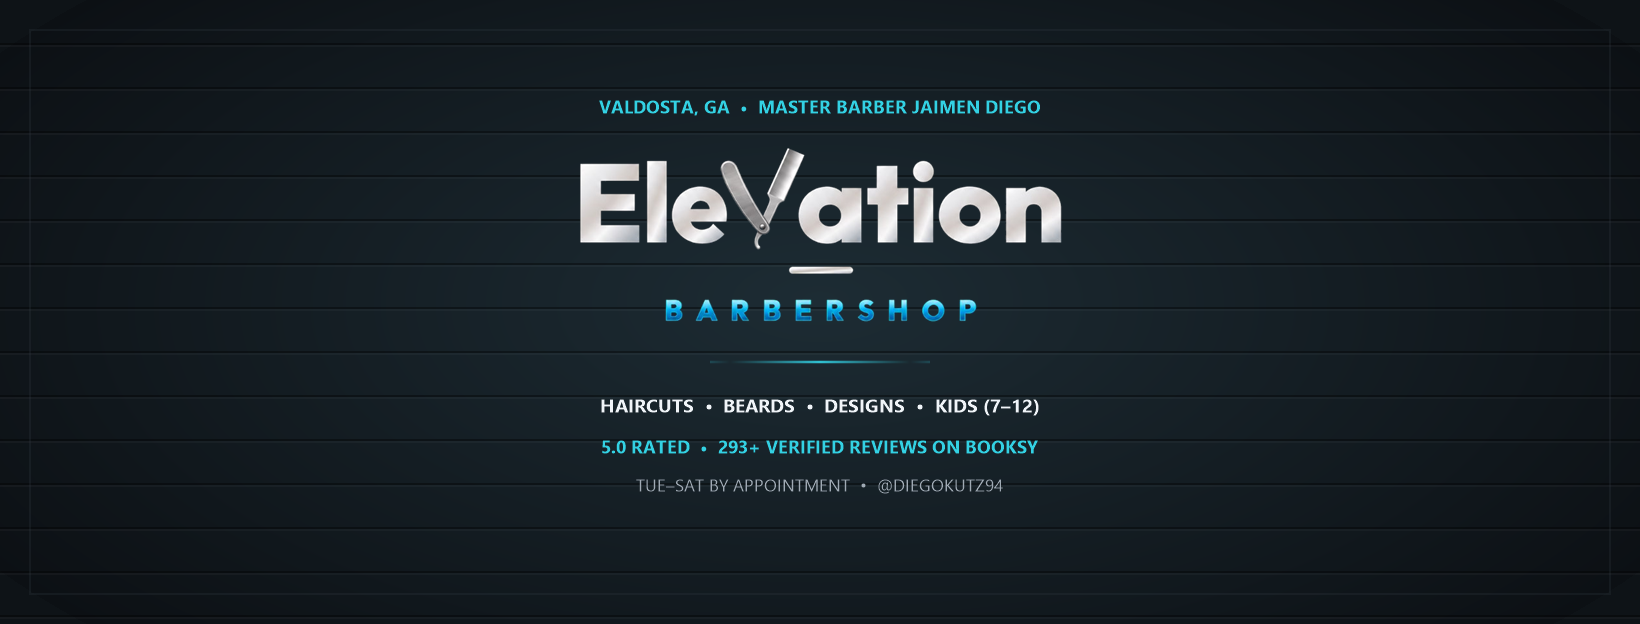
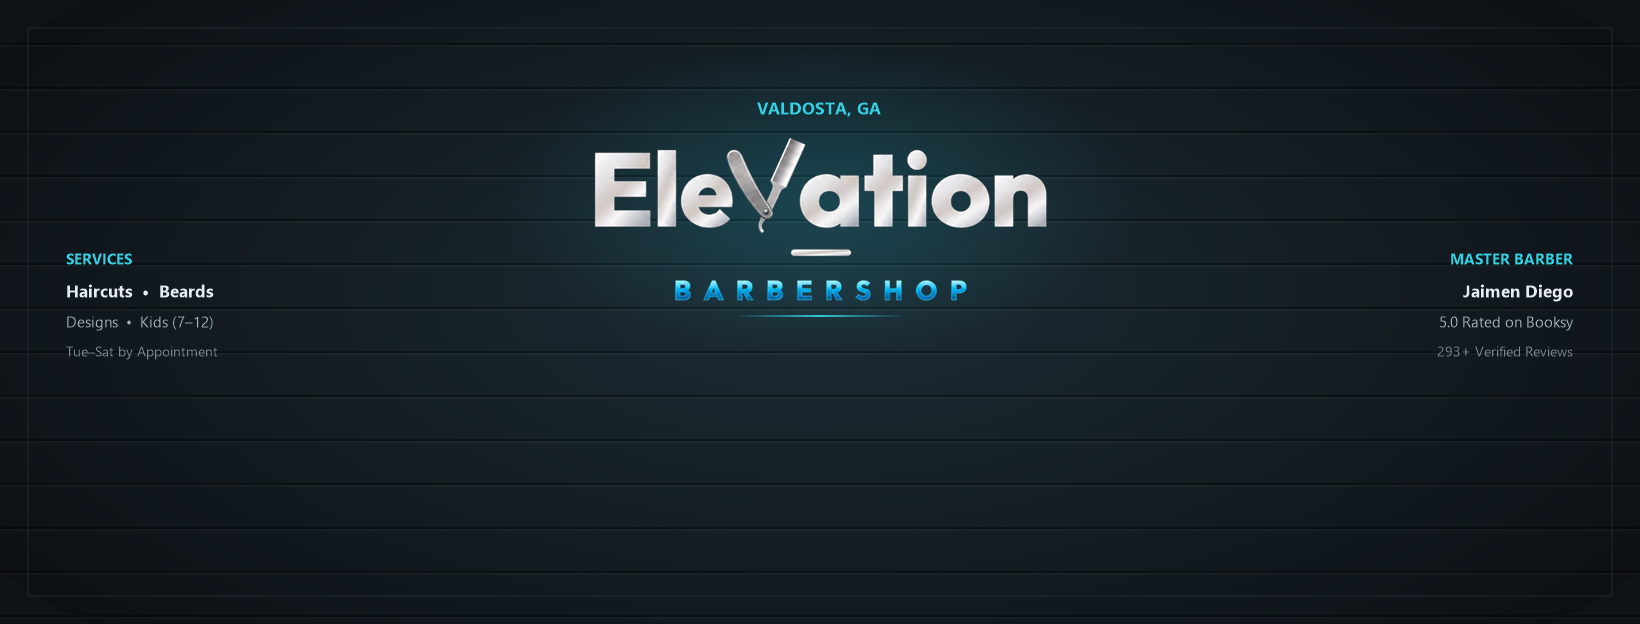
Redesign Facebook covers to be dual-safe for both Mobile and Desktop layouts

diff --git a/brand-kit/index.html b/brand-kit/index.html
@@ -120,7 +120,7 @@
         <div class="lg:col-span-7 bg-slatebg-surface border border-slatebg-border rounded-3xl overflow-hidden shadow-xl flex flex-col justify-between">
           <div>
             <div class="relative bg-slatebg">
-              <img id="fb-cover-preview" src="png/facebook-cover-1640x624.png" alt="Facebook Page Cover 1640x624" class="w-full h-auto block border-b border-slatebg-border">
+              <img id="fb-cover-preview" src="png/facebook-cover-1640x624.png?v=2" alt="Facebook Page Cover 1640x624" class="w-full h-auto block border-b border-slatebg-border">
               <div class="px-6 py-4 flex flex-col sm:flex-row sm:items-center justify-between gap-4 bg-slatebg">
                 <div class="flex items-center gap-4">
                   <img src="png/social-profile-crest-1000x1000.png" alt="FB Crest Avatar" class="w-20 h-20 rounded-full border-4 border-white/90 shadow-2xl bg-slatebg-deep shrink-0">
@@ -137,19 +137,19 @@
             <div class="flex flex-wrap items-center justify-between gap-2">
               <div>
                 <p class="text-sm font-bold text-white">Facebook Page Cover Banners (1640 &times; 624 px)</p>
-                <p class="text-xs text-silver-muted">Vertically centered with 70px crop-safe margins top &amp; bottom for live Facebook headers</p>
+                <p class="text-xs text-silver-muted">Dual-safe for Desktop &amp; Mobile Facebook &mdash; clears top mobile icons &amp; sits cleanly above the mobile profile circle</p>
               </div>
               <div class="flex items-center gap-1.5">
-                <button type="button" onclick="document.getElementById('fb-cover-preview').src='png/facebook-cover-1640x624.png'" class="px-2.5 py-1 rounded-md bg-slatebg border border-slatebg-border hover:border-petrol-light text-[11px] font-bold text-silver hover:text-white cursor-pointer">Preview Showcase</button>
-                <button type="button" onclick="document.getElementById('fb-cover-preview').src='png/facebook-cover-minimal-1640x624.png'" class="px-2.5 py-1 rounded-md bg-slatebg border border-slatebg-border hover:border-petrol-light text-[11px] font-bold text-silver hover:text-white cursor-pointer">Preview Minimal</button>
+                <button type="button" onclick="document.getElementById('fb-cover-preview').src='png/facebook-cover-1640x624.png?v=2'" class="px-2.5 py-1 rounded-md bg-slatebg border border-slatebg-border hover:border-petrol-light text-[11px] font-bold text-silver hover:text-white cursor-pointer">Preview Showcase</button>
+                <button type="button" onclick="document.getElementById('fb-cover-preview').src='png/facebook-cover-minimal-1640x624.png?v=2'" class="px-2.5 py-1 rounded-md bg-slatebg border border-slatebg-border hover:border-petrol-light text-[11px] font-bold text-silver hover:text-white cursor-pointer">Preview Minimal</button>
               </div>
             </div>
             <div class="grid grid-cols-1 sm:grid-cols-2 gap-2.5">
-              <a href="png/facebook-cover-1640x624.png" download="elevation-facebook-cover-showcase-1640x624.png"
+              <a href="png/facebook-cover-1640x624.png?v=2" download="elevation-facebook-cover-showcase-1640x624.png"
                  class="text-center px-4 py-2.5 rounded-xl bg-petrol hover:bg-petrol-light text-slatebg-deep font-bold text-xs transition-colors">
                 Download Showcase Cover (Option A)
               </a>
-              <a href="png/facebook-cover-minimal-1640x624.png" download="elevation-facebook-cover-minimal-1640x624.png"
+              <a href="png/facebook-cover-minimal-1640x624.png?v=2" download="elevation-facebook-cover-minimal-1640x624.png"
                  class="text-center px-4 py-2.5 rounded-xl bg-slatebg hover:bg-slatebg-border border border-slatebg-border text-white font-bold text-xs transition-colors">
                 Download Minimal Cover (Option B)
               </a>
